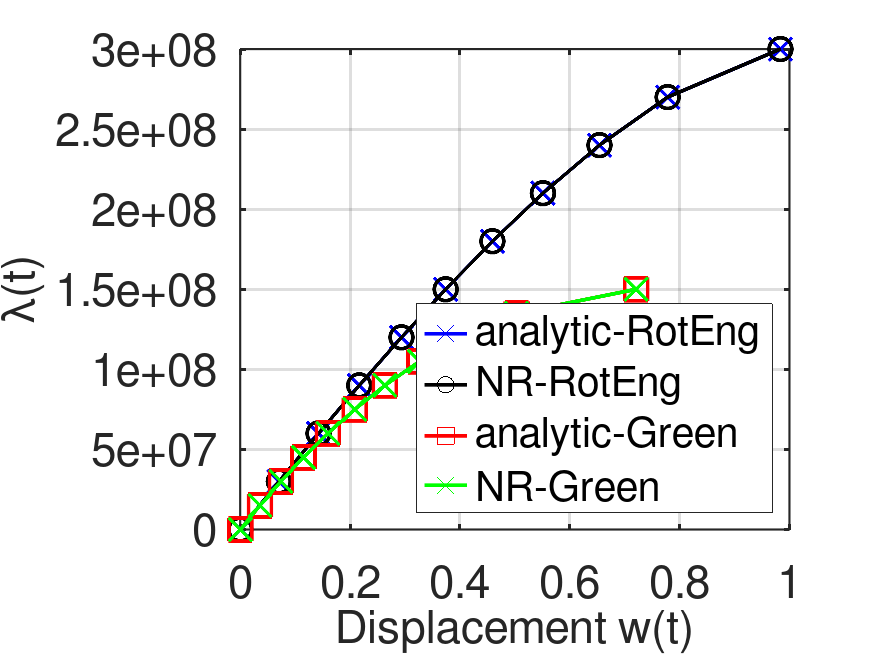
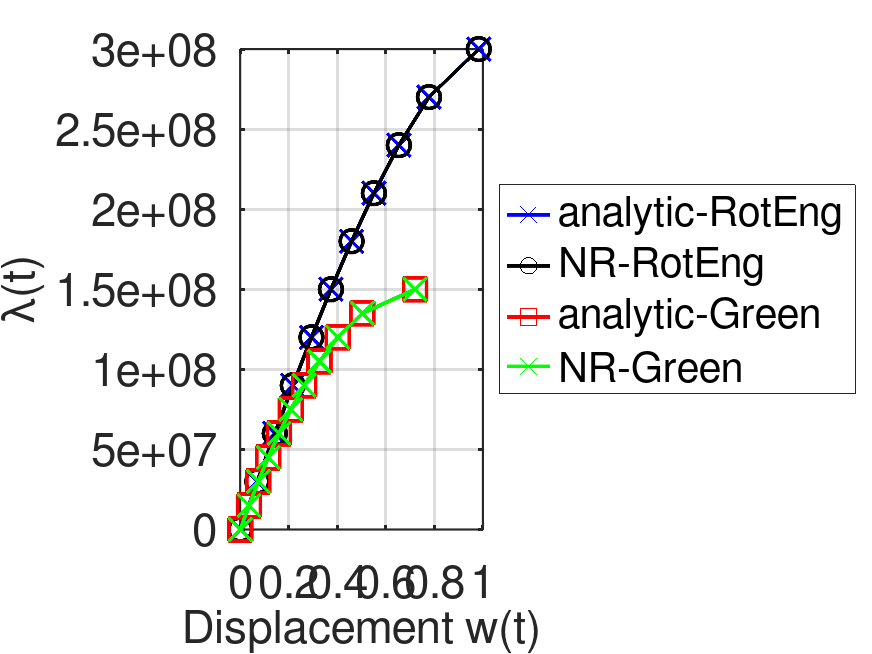
update legend

diff --git a/docs/src/staticVonMisesTruss.md b/docs/src/staticVonMisesTruss.md
@@ -176,8 +176,8 @@ difLoadGreen = analyticLoadFactorsNRGreen( controlDispsNRGreen )' - loadFactorsN
 ## Verification
  the numerical resolution is validated for both strain measures.
 ```
-verifBoolean = ( ( norm( difLoadEngRot ) / norm( loadFactorsNREngRot ) ) <  1e-4 ) ...
-             * ( ( norm( difLoadGreen  ) / norm( loadFactorsNRGreen  ) ) <  1e-4 )
+verifBoolean =  ( ( norm( difLoadEngRot ) / norm( loadFactorsNREngRot ) ) <  1e-4 ) ...
+             && ( ( norm( difLoadGreen  ) / norm( loadFactorsNRGreen  ) ) <  1e-4 )
 ```
 ### Plots
  and solutions are plotted.
@@ -190,13 +190,13 @@ plot( controlDispsNREngRot, loadFactorsNREngRot, 'k-o' , 'linewidth', lw,'marker
 plot( controlDispsNRGreen, loadFactorsNRGreen, 'r-s' , 'linewidth', lw,'markersize',ms )
 plot( controlDispsNRGreen, analyticLoadFactorsNRGreen( controlDispsNRGreen ), 'g-x' , 'linewidth', lw,'markersize',ms )
 labx = xlabel('Displacement w(t)');   laby = ylabel('\lambda(t)') ;
-legend( 'analytic-RotEng', 'NR-RotEng','analytic-Green', 'NR-Green', 'location','SouthEast')
+legend( 'analytic-RotEng', 'NR-RotEng','analytic-Green', 'NR-Green', 'location','EastOutside')
 set(gca, 'linewidth', 1.2, 'fontsize', plotfontsize )
 set(labx, 'FontSize', plotfontsize); set(laby, 'FontSize', plotfontsize) ;
 print('output/vonMisesTrussCheck.png','-dpng')
 ```
 
 ```@raw html
-<img src="https://raw.githubusercontent.com/ONSAS/ONSAS.docs/master/docs/src/tutorials/StaticVonMisesTruss/vonMisesTrussCheck.png" alt="plot check" width="500"/>
+<img src="https://raw.githubusercontent.com/ONSAS/ONSAS.docs/master/docs/src/vonMisesTrussCheck.png" alt="plot check" width="500"/>
 ```
 
